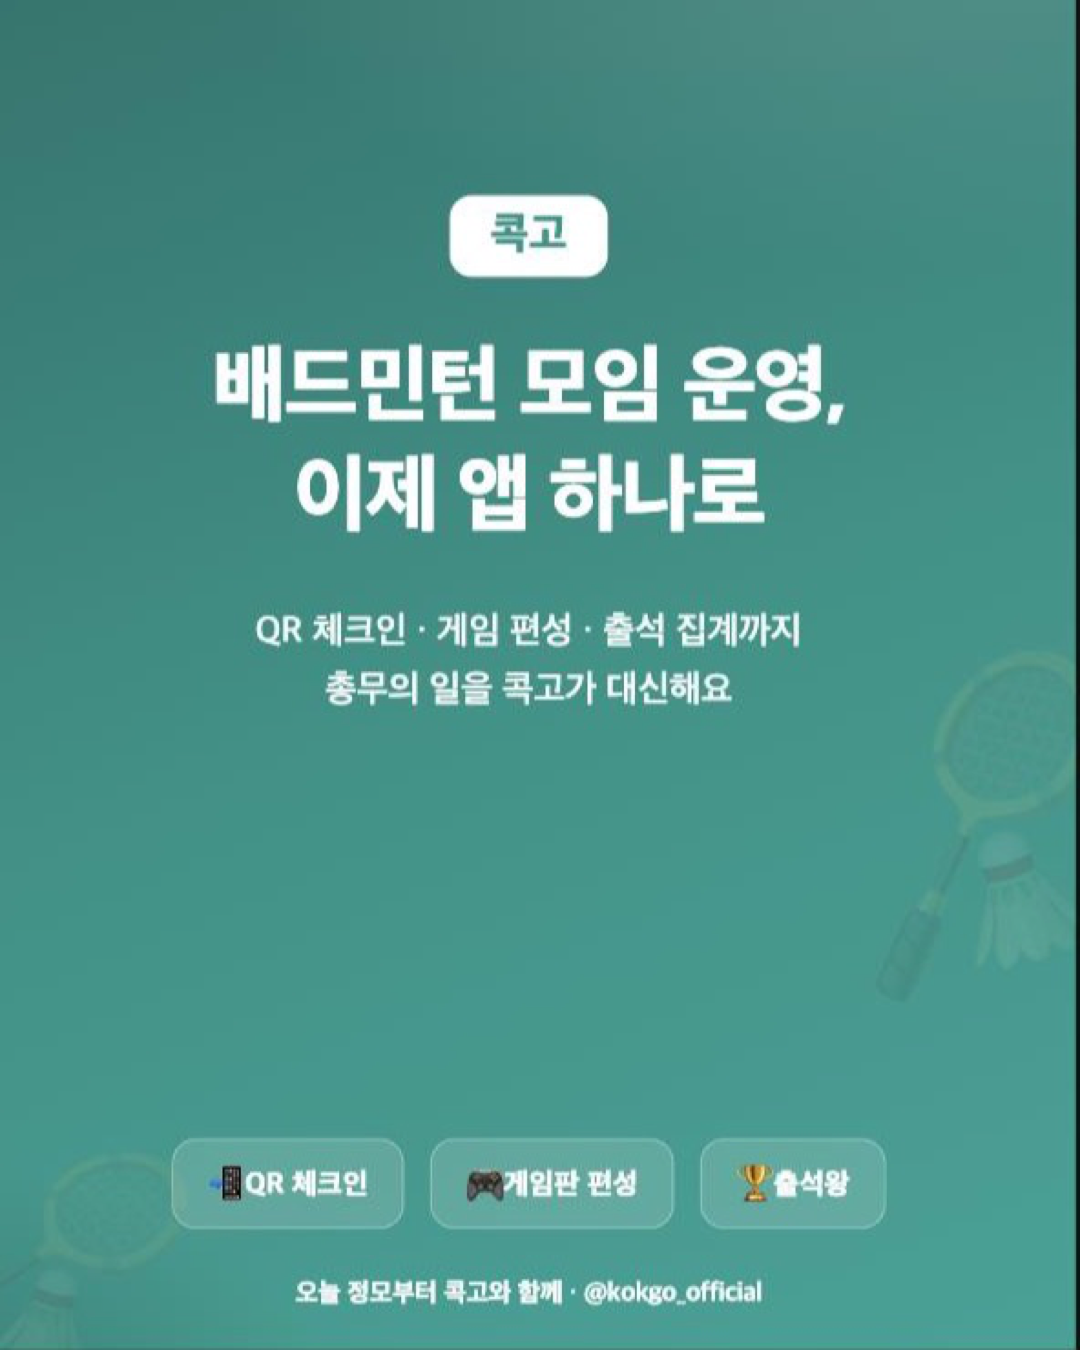
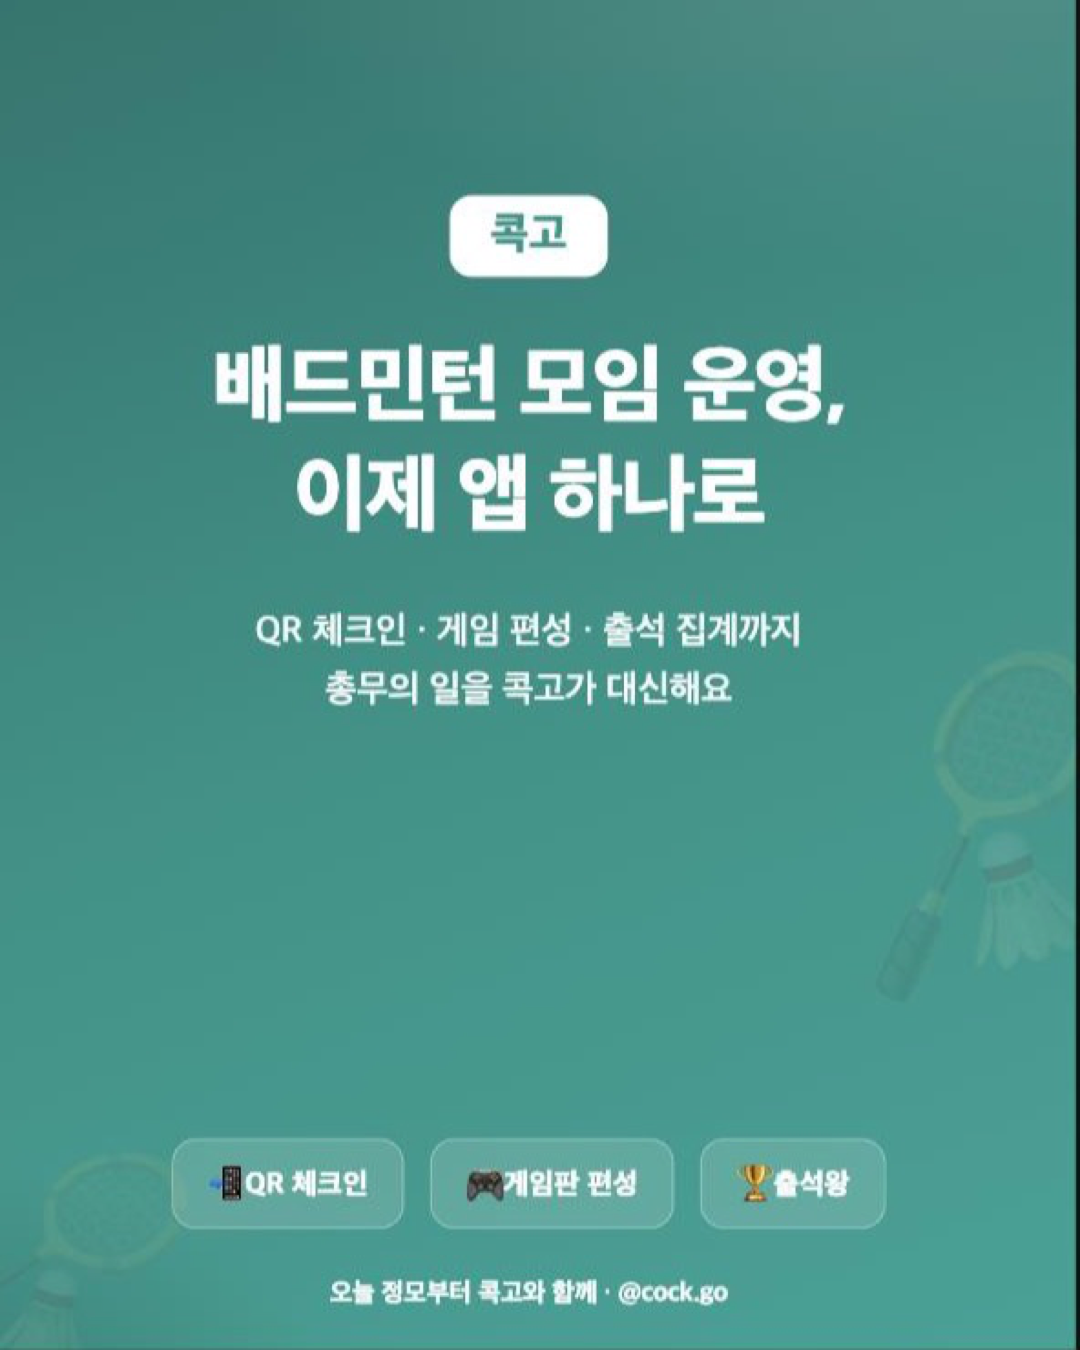
chore(marketing): 커버 카드 핸들 @cock.go 로 수정

Changed region(s): [[0.275, 0.9333, 0.7028, 0.9644]]

diff --git a/marketing/instagram/templates/ig1.html b/marketing/instagram/templates/ig1.html
@@ -12,5 +12,5 @@
     <div style="background:rgba(255,255,255,.14); border:1.5px solid rgba(255,255,255,.35); border-radius:24px; padding:24px 34px; font-size:29px; font-weight:800; white-space:nowrap;">🎮 게임판 편성</div>
     <div style="background:rgba(255,255,255,.14); border:1.5px solid rgba(255,255,255,.35); border-radius:24px; padding:24px 34px; font-size:29px; font-weight:800; white-space:nowrap;">🏆 출석왕</div>
   </div>
-  <div class="brand" style="bottom:40px;">오늘 정모부터 콕고와 함께 · @kokgo_official</div>
+  <div class="brand" style="bottom:40px;">오늘 정모부터 콕고와 함께 · @cock.go</div>
 </div>
